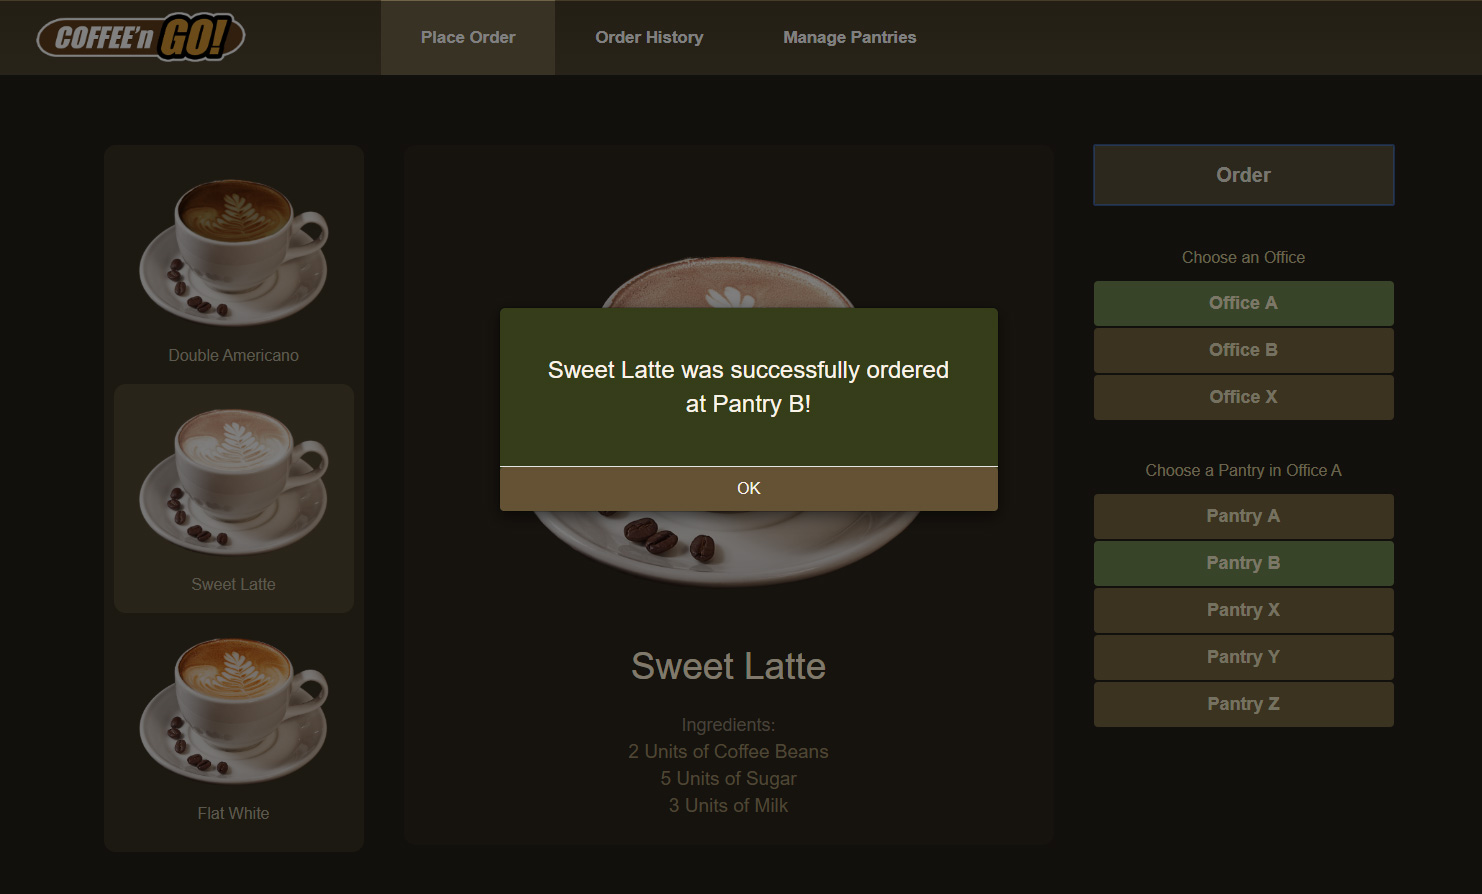
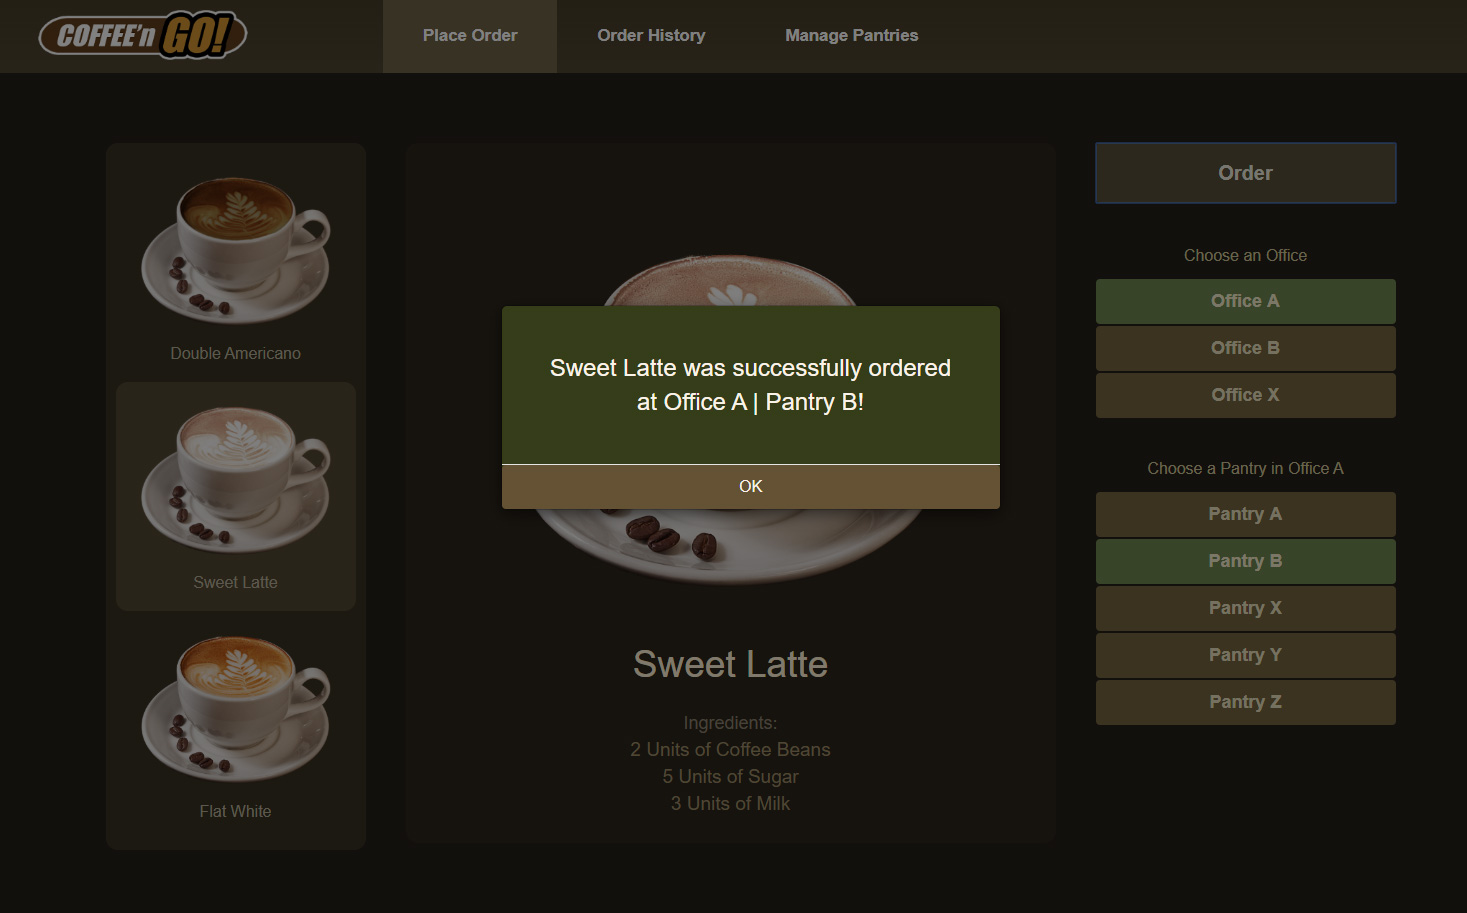
Update order success text

diff --git a/BarcenaCoffeeAngularClient/src/app/order/coffee-select/coffee-select.component.ts b/BarcenaCoffeeAngularClient/src/app/order/coffee-select/coffee-select.component.ts
@@ -157,7 +157,8 @@ export class CoffeeSelectComponent implements OnInit {
       let apiAddress = `api/pantry/${pantry.id}`;
       this.repository.update(apiAddress, pantry)
         .subscribe(res => {
-          this.successMessage = drink.drinkName + " was successfully ordered at " + pantry.pantryName + "!";
+          let office: Office = this.offices.find(o => o.id == pantry.officeId);
+          this.successMessage = drink.drinkName + " was successfully ordered at " + office.officeName + " | " + pantry.pantryName + "!";
           $('#success-modal').modal();
         },
         (error => {

diff --git a/BarcenaCoffeeAngularClient/src/app/history/order-history/order-history.component.html b/BarcenaCoffeeAngularClient/src/app/history/order-history/order-history.component.html
@@ -7,7 +7,7 @@
                     All Pantries
                 </option>
                 <option *ngFor="let pantry of pantries; let i = index" value={{pantry.id}}>
-                    {{getOfficeNameByPantryId(pantry.id)}} - {{pantry.pantryName}}
+                    {{getOfficeNameByPantryId(pantry.id)}} | {{pantry.pantryName}}
                 </option>
             </select>
         </div>
